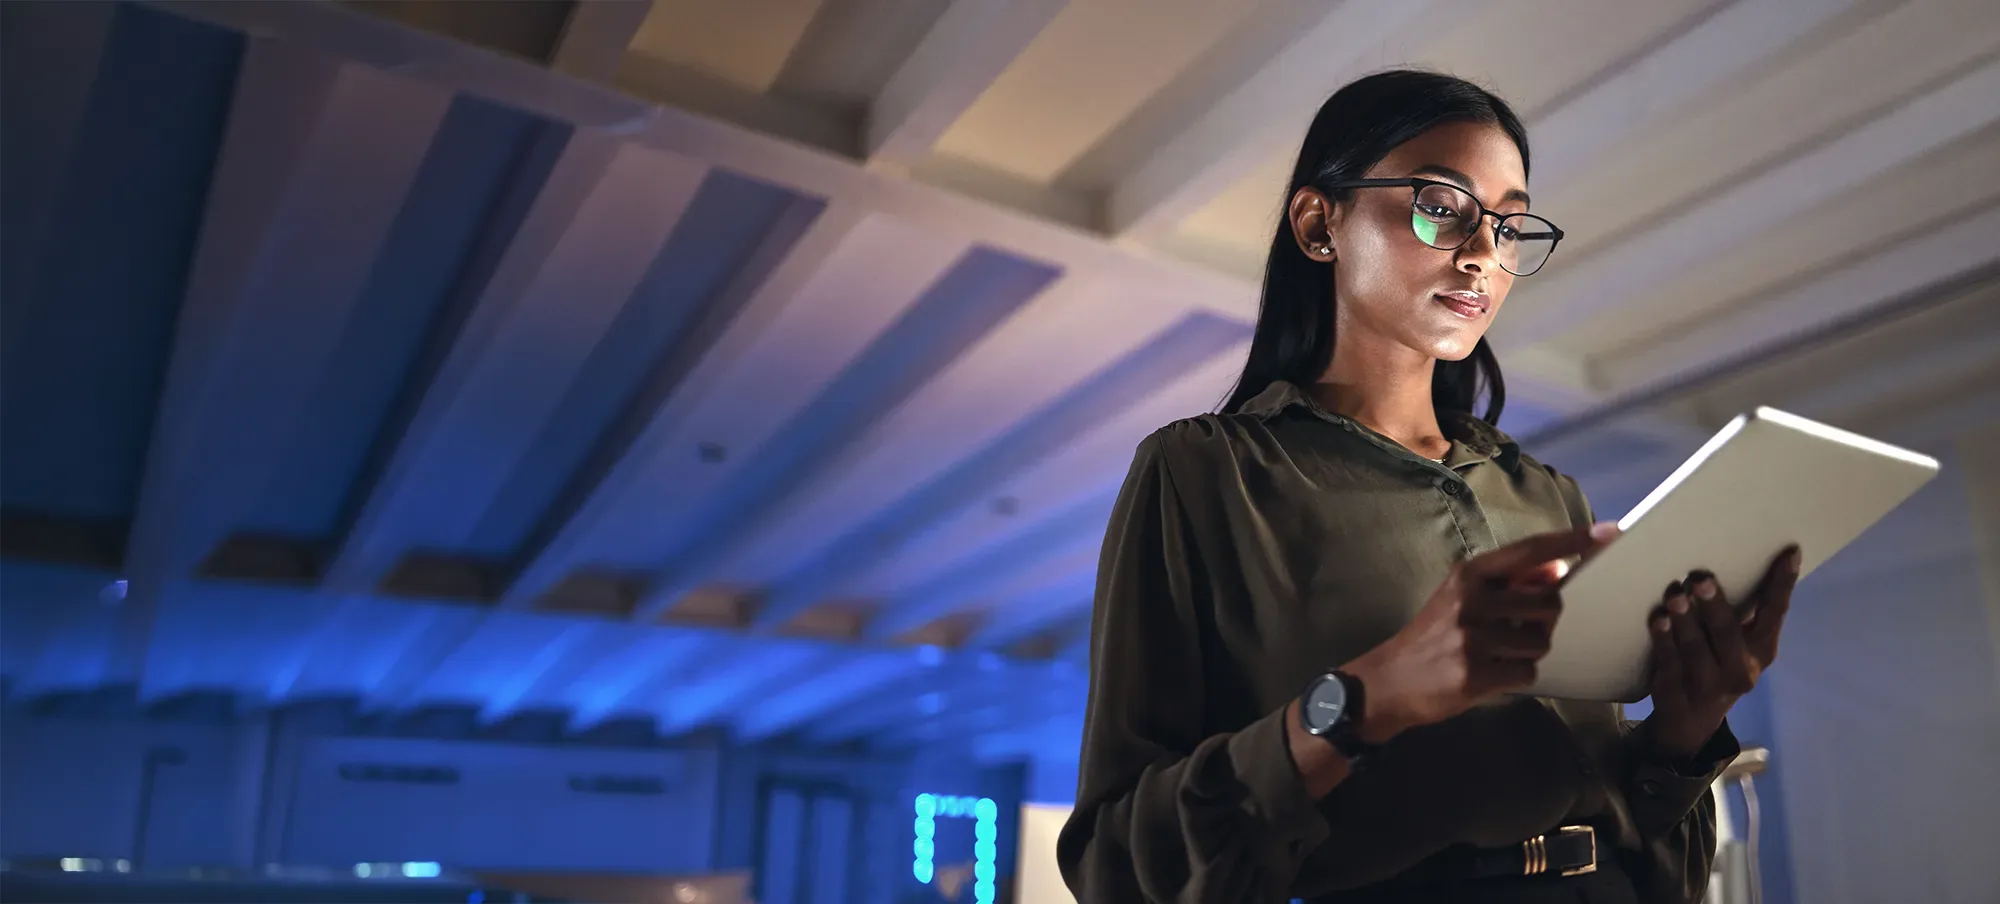
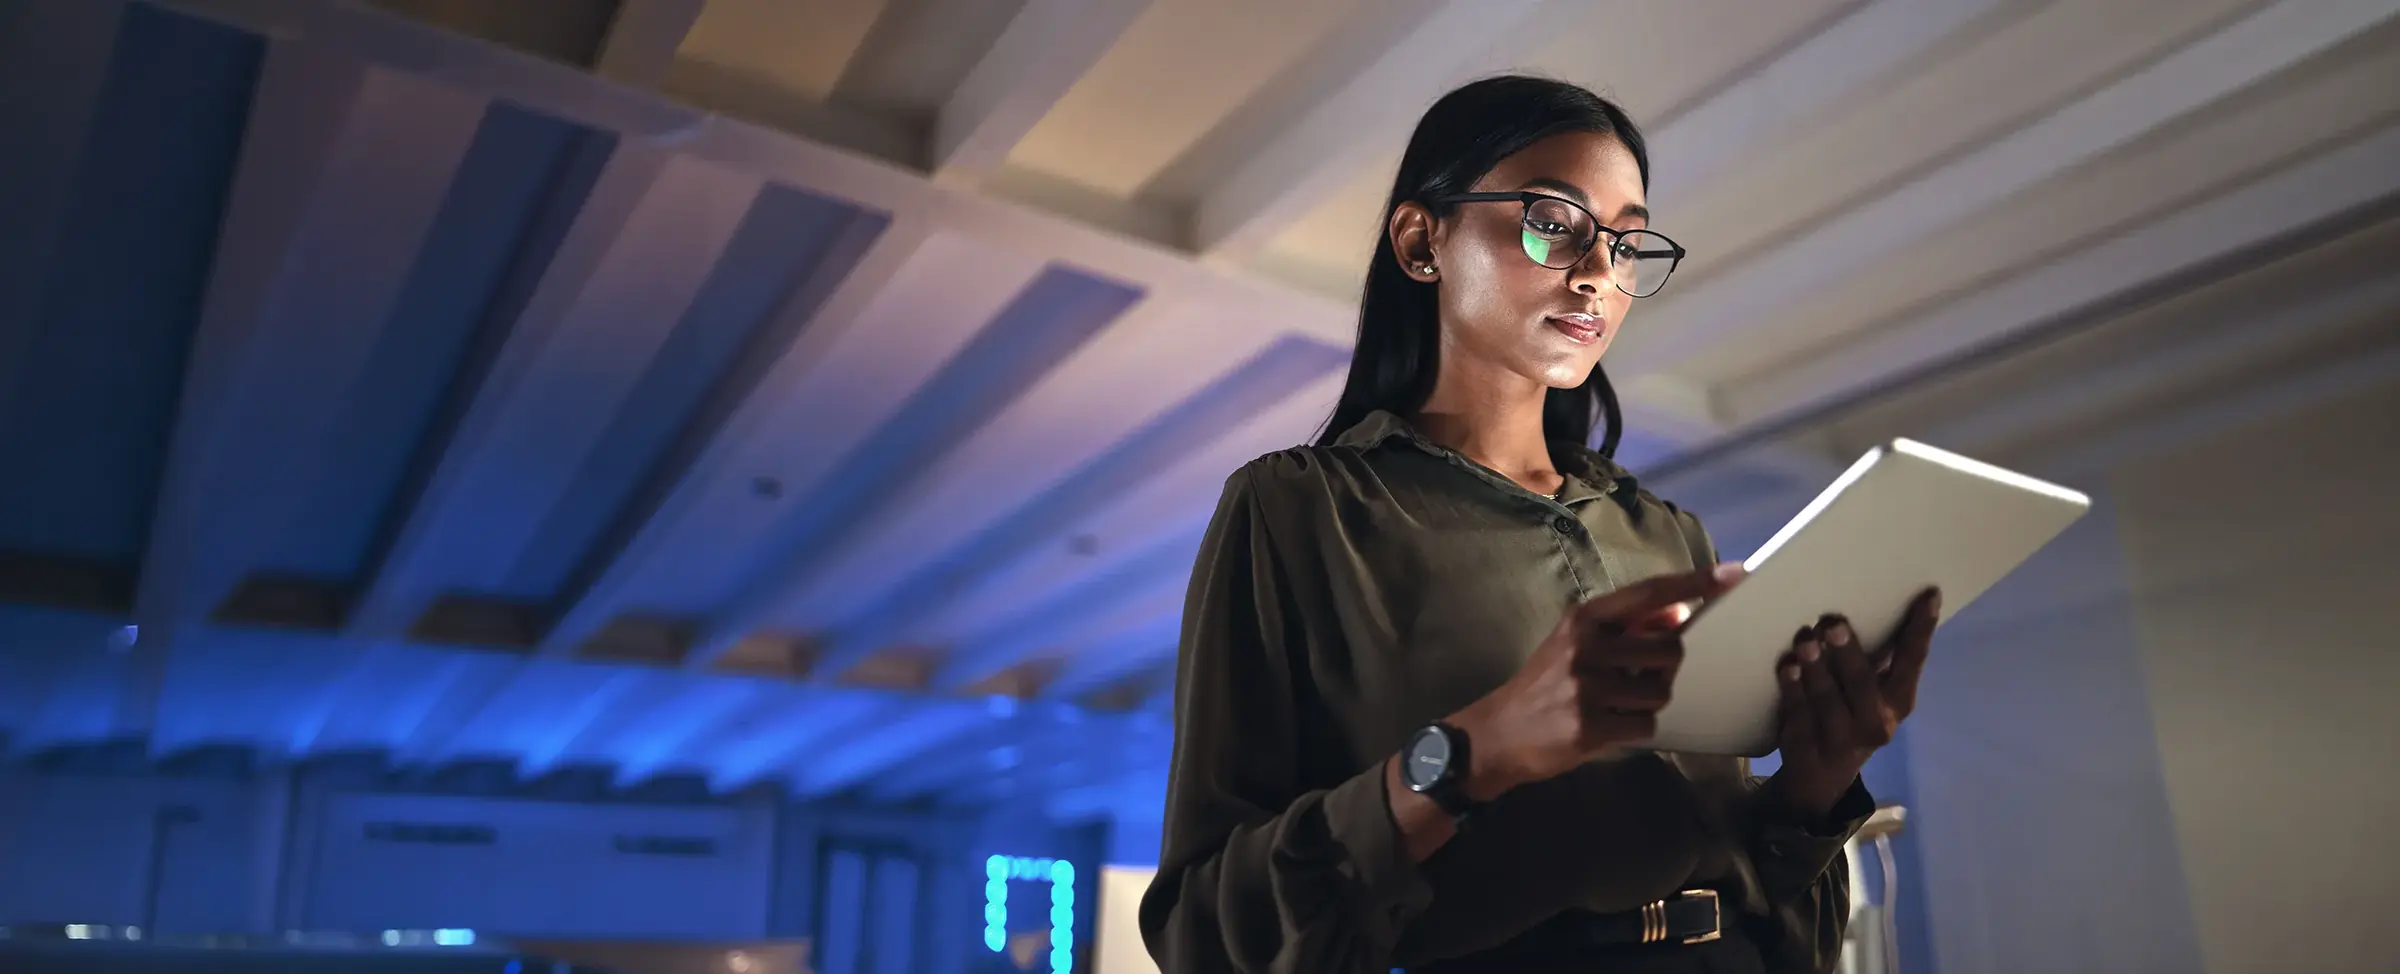
Careers: ocean 15+ with larger two-line label beside it; new Explore Opportunities photo
Claude-Session: https://claude.ai/code/session_01TMf9hwPXJMjEVod3nK82BE

diff --git a/careers.html b/careers.html
@@ -9,7 +9,7 @@
 <link rel="icon" type="image/svg+xml" href="images/favicon.svg">
 <link rel="preload" href="fonts/Alcyone-Bold.woff2" as="font" type="font/woff2" crossorigin>
 <link rel="preload" href="fonts/Alcyone-Regular.woff2" as="font" type="font/woff2" crossorigin>
-<link rel="stylesheet" href="css/site.css?v=75">
+<link rel="stylesheet" href="css/site.css?v=76">
 <script>(function(d){if(window.matchMedia&&matchMedia("(prefers-reduced-motion: reduce)").matches)return;d.classList.add("motion");setTimeout(function(){if(!window.__rv)d.classList.remove("motion")},2500)})(document.documentElement)</script>
 </head>
 <body>
@@ -53,7 +53,7 @@
     </div>
     <div class="wrap split tenure-row">
       <div aria-hidden="true"></div>
-      <figure class="quote-wrap tenure-wrap"><span class="quote-slash" aria-hidden="true"></span><div class="tenure"><b>15+</b><span>Years average employee tenure</span></div></figure>
+      <figure class="quote-wrap tenure-wrap"><span class="quote-slash" aria-hidden="true"></span><div class="tenure"><b>15+</b><span>Years Average<br>Employee Tenure</span></div></figure>
     </div>
   </section>
 
@@ -82,7 +82,7 @@
   </section>
 
   <section class="rp rp-solo rp-end">
-    <img class="rp-img" src="images/careers-explore.webp" alt="" width="2000" height="904" loading="lazy" style="object-position:60% 30%">
+    <img class="rp-img" src="images/careers-explore.webp" alt="" width="2400" height="974" loading="lazy" style="object-position:62% 35%">
     <span class="rp-teal" aria-hidden="true"></span>
     <span class="rp-coral" aria-hidden="true"></span>
     <div class="wrap">

diff --git a/index.html b/index.html
@@ -10,7 +10,7 @@
 <link rel="preload" href="fonts/Alcyone-Bold.woff2" as="font" type="font/woff2" crossorigin>
 <link rel="preload" href="fonts/Alcyone-Regular.woff2" as="font" type="font/woff2" crossorigin>
 <link rel="preload" as="image" href="images/inclined-hero.webp" imagesrcset="images/inclined-hero-1000.webp 1000w, images/inclined-hero.webp 2000w" imagesizes="100vw">
-<link rel="stylesheet" href="css/site.css?v=75">
+<link rel="stylesheet" href="css/site.css?v=76">
 <script>(function(d){if(window.matchMedia&&matchMedia("(prefers-reduced-motion: reduce)").matches)return;d.classList.add("motion");setTimeout(function(){if(!window.__rv)d.classList.remove("motion")},2500)})(document.documentElement)</script>
 </head>
 <body>

diff --git a/about.html b/about.html
@@ -9,7 +9,7 @@
 <link rel="icon" type="image/svg+xml" href="images/favicon.svg">
 <link rel="preload" href="fonts/Alcyone-Bold.woff2" as="font" type="font/woff2" crossorigin>
 <link rel="preload" href="fonts/Alcyone-Regular.woff2" as="font" type="font/woff2" crossorigin>
-<link rel="stylesheet" href="css/site.css?v=75">
+<link rel="stylesheet" href="css/site.css?v=76">
 <script>(function(d){if(window.matchMedia&&matchMedia("(prefers-reduced-motion: reduce)").matches)return;d.classList.add("motion");setTimeout(function(){if(!window.__rv)d.classList.remove("motion")},2500)})(document.documentElement)</script>
 </head>
 <body>

diff --git a/capabilities.html b/capabilities.html
@@ -9,7 +9,7 @@
 <link rel="icon" type="image/svg+xml" href="images/favicon.svg">
 <link rel="preload" href="fonts/Alcyone-Bold.woff2" as="font" type="font/woff2" crossorigin>
 <link rel="preload" href="fonts/Alcyone-Regular.woff2" as="font" type="font/woff2" crossorigin>
-<link rel="stylesheet" href="css/site.css?v=75">
+<link rel="stylesheet" href="css/site.css?v=76">
 <script>(function(d){if(window.matchMedia&&matchMedia("(prefers-reduced-motion: reduce)").matches)return;d.classList.add("motion");setTimeout(function(){if(!window.__rv)d.classList.remove("motion")},2500)})(document.documentElement)</script>
 </head>
 <body>

diff --git a/contact.html b/contact.html
@@ -9,7 +9,7 @@
 <link rel="icon" type="image/svg+xml" href="images/favicon.svg">
 <link rel="preload" href="fonts/Alcyone-Bold.woff2" as="font" type="font/woff2" crossorigin>
 <link rel="preload" href="fonts/Alcyone-Regular.woff2" as="font" type="font/woff2" crossorigin>
-<link rel="stylesheet" href="css/site.css?v=75">
+<link rel="stylesheet" href="css/site.css?v=76">
 <script>(function(d){if(window.matchMedia&&matchMedia("(prefers-reduced-motion: reduce)").matches)return;d.classList.add("motion");setTimeout(function(){if(!window.__rv)d.classList.remove("motion")},2500)})(document.documentElement)</script>
 </head>
 <body>

diff --git a/leadership.html b/leadership.html
@@ -9,7 +9,7 @@
 <link rel="icon" type="image/svg+xml" href="images/favicon.svg">
 <link rel="preload" href="fonts/Alcyone-Bold.woff2" as="font" type="font/woff2" crossorigin>
 <link rel="preload" href="fonts/Alcyone-Regular.woff2" as="font" type="font/woff2" crossorigin>
-<link rel="stylesheet" href="css/site.css?v=75">
+<link rel="stylesheet" href="css/site.css?v=76">
 <script>(function(d){if(window.matchMedia&&matchMedia("(prefers-reduced-motion: reduce)").matches)return;d.classList.add("motion");setTimeout(function(){if(!window.__rv)d.classList.remove("motion")},2500)})(document.documentElement)</script>
 </head>
 <body>

diff --git a/css/site.css b/css/site.css
@@ -615,3 +615,6 @@ main{animation:fade .45s ease both}
 .rp-end{padding-bottom:clamp(64px,8vw,128px)}
 .tenure-row .tenure-wrap{margin-left:calc(-1 * (clamp(96px,9vw,150px) + clamp(20px,2.4vw,36px)))}
 @media (max-width:860px){.tenure-row .tenure-wrap{margin-left:0}}
+.tenure-wrap .tenure{display:flex;align-items:flex-start;gap:clamp(14px,1.6vw,24px)}
+.tenure-wrap .tenure b{color:var(--ocean)}
+.tenure-wrap .tenure span{font-size:clamp(1.25rem,1rem + .9vw,1.75rem);line-height:1.15;font-weight:700;color:var(--navy);padding-top:.32em}
